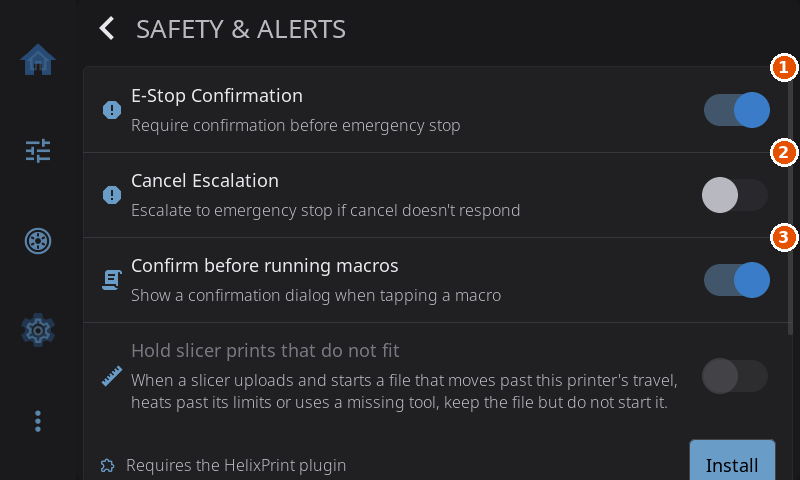
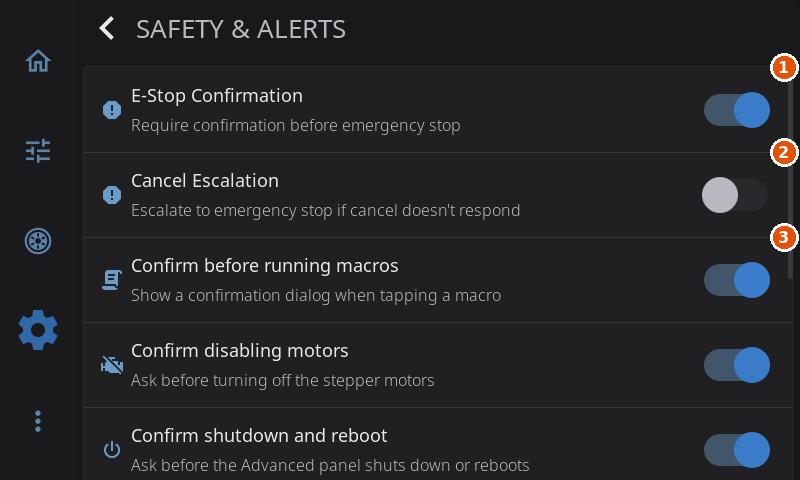
docs(user): Safety images show the motor and power confirmation rows

diff --git a/docs/devel/GALLERY.md b/docs/devel/GALLERY.md
@@ -32,7 +32,19 @@ Every app screenshot the docs show, grouped by area. Generated by `scripts/gen_g
 
 <img src="../images/screenshot-settings-panel.png" alt="Settings panel" width="400"/>
 
+### Wizard wifi
+
+<img src="../images/screenshot-wizard-wifi.png" alt="Wizard wifi" width="400"/>
+
 ## Home
+
+### Home edit mode
+
+<img src="../images/user/home-edit-mode.png" alt="Home edit mode" width="400"/>
+
+### Home edit nav buttons
+
+<img src="../images/user/home-edit-nav-buttons.png" alt="Home edit nav buttons" width="400"/>
 
 ### Home widget catalog category
 
@@ -41,6 +53,10 @@ Every app screenshot the docs show, grouped by area. Generated by `scripts/gen_g
 ### Home widget catalog
 
 <img src="../images/user/home-widget-catalog.png" alt="Home widget catalog" width="400"/>
+
+### Home widget trash
+
+<img src="../images/user/home-widget-trash.png" alt="Home widget trash" width="400"/>
 
 ### Home
 
@@ -60,9 +76,17 @@ Every app screenshot the docs show, grouped by area. Generated by `scripts/gen_g
 
 <img src="../images/user/controls-fan.png" alt="Controls fan" width="400"/>
 
+### Controls home row
+
+<img src="../images/user/controls-home-row.png" alt="Controls home row" width="400"/>
+
 ### Controls motion
 
 <img src="../images/user/controls-motion.png" alt="Controls motion" width="400"/>
+
+### Controls nozzle chooser
+
+<img src="../images/user/controls-nozzle-chooser.png" alt="Controls nozzle chooser" width="400"/>
 
 ### Controls pid
 
@@ -78,17 +102,37 @@ Every app screenshot the docs show, grouped by area. Generated by `scripts/gen_g
 
 <img src="../images/user/preflight-check.png" alt="Preflight check" width="400"/>
 
+### Preflight material
+
+<img src="../images/user/preflight-material.png" alt="Preflight material" width="400"/>
+
 ### Print select
 
 <img src="../images/user/print-select.png" alt="Print select" width="400"/>
+
+### Print status controls
+
+<img src="../images/user/print-status-controls.png" alt="Print status controls" width="400"/>
 
 ### Print status
 
 <img src="../images/user/print-status.png" alt="Print status" width="400"/>
 
+### Print tune callouts
+
+<img src="../images/user/print-tune-callouts.png" alt="Print tune callouts" width="400"/>
+
 ### Print tune
 
 <img src="../images/user/print-tune.png" alt="Print tune" width="400"/>
+
+### Printing filament rows
+
+<img src="../images/user/printing-filament-rows.png" alt="Printing filament rows" width="400"/>
+
+### Printing material edit
+
+<img src="../images/user/printing-material-edit.png" alt="Printing material edit" width="400"/>
 
 ## Filament (AMS)
 
@@ -200,6 +244,10 @@ Every app screenshot the docs show, grouped by area. Generated by `scripts/gen_g
 
 <img src="../images/user/settings-network.png" alt="Settings network" width="400"/>
 
+### Settings printer visuals
+
+<img src="../images/user/settings-printer-visuals.png" alt="Settings printer visuals" width="400"/>
+
 ### Settings printers
 
 <img src="../images/user/settings-printers.png" alt="Settings printers" width="400"/>
@@ -248,9 +296,17 @@ Every app screenshot the docs show, grouped by area. Generated by `scripts/gen_g
 
 <img src="../images/user/settings-system-2.png" alt="Settings system 2" width="400"/>
 
+### Settings system reset
+
+<img src="../images/user/settings-system-reset.png" alt="Settings system reset" width="400"/>
+
 ### Settings system
 
 <img src="../images/user/settings-system.png" alt="Settings system" width="400"/>
+
+### Settings theme actions
+
+<img src="../images/user/settings-theme-actions.png" alt="Settings theme actions" width="400"/>
 
 ### Settings theme
 
@@ -263,6 +319,18 @@ Every app screenshot the docs show, grouped by area. Generated by `scripts/gen_g
 ### Settings touch input
 
 <img src="../images/user/settings-touch-input.png" alt="Settings touch input" width="400"/>
+
+### Settings touch sliders
+
+<img src="../images/user/settings-touch-sliders.png" alt="Settings touch sliders" width="400"/>
+
+### Settings updates check
+
+<img src="../images/user/settings-updates-check.png" alt="Settings updates check" width="400"/>
+
+### Settings updates firmware managed
+
+<img src="../images/user/settings-updates-firmware-managed.png" alt="Settings updates firmware managed" width="400"/>
 
 ### Settings updates
 
@@ -277,3 +345,161 @@ Every app screenshot the docs show, grouped by area. Generated by `scripts/gen_g
 ### Screen lock
 
 <img src="../images/user/screen-lock.png" alt="Screen lock" width="400"/>
+
+## About
+
+### About version row
+
+<img src="../images/user/about-version-row.png" alt="About version row" width="400"/>
+
+## Chamber
+
+### Chamber card stock
+
+<img src="../images/user/chamber-card-stock.png" alt="Chamber card stock" width="400"/>
+
+## Change
+
+### Change host dialog
+
+<img src="../images/user/change-host-dialog.png" alt="Change host dialog" width="400"/>
+
+## Config
+
+### Config safety confirmations
+
+<img src="../images/user/config-safety-confirmations.png" alt="Config safety confirmations" width="400"/>
+
+### Config safety power confirmations
+
+<img src="../images/user/config-safety-power-confirmations.png" alt="Config safety power confirmations" width="400"/>
+
+### Config screen sharing
+
+<img src="../images/user/config-screen-sharing.png" alt="Config screen sharing" width="400"/>
+
+## Connection
+
+### Connection rows
+
+<img src="../images/user/connection-rows.png" alt="Connection rows" width="400"/>
+
+## Debug
+
+### Debug bundle dialog
+
+<img src="../images/user/debug-bundle-dialog.png" alt="Debug bundle dialog" width="400"/>
+
+## Detection
+
+### Detection settings
+
+<img src="../images/user/detection-settings.png" alt="Detection settings" width="400"/>
+
+## Filament
+
+### Filament tool select
+
+<img src="../images/user/filament-tool-select.png" alt="Filament tool select" width="400"/>
+
+## Help
+
+### Help rows
+
+<img src="../images/user/help-rows.png" alt="Help rows" width="400"/>
+
+## History
+
+### History time filters
+
+<img src="../images/user/history-time-filters.png" alt="History time filters" width="400"/>
+
+## Klipper
+
+### Klipper recovery dialog
+
+<img src="../images/user/klipper-recovery-dialog.png" alt="Klipper recovery dialog" width="400"/>
+
+## Label
+
+### Label printer settings 2
+
+<img src="../images/user/label-printer-settings-2.png" alt="Label printer settings 2" width="400"/>
+
+## Language
+
+### Language time rows
+
+<img src="../images/user/language-time-rows.png" alt="Language time rows" width="400"/>
+
+## Led
+
+### Led settings startup
+
+<img src="../images/user/led-settings-startup.png" alt="Led settings startup" width="400"/>
+
+## Manage
+
+### Manage printers
+
+<img src="../images/user/manage-printers.png" alt="Manage printers" width="400"/>
+
+## Motion
+
+### Motion home bar
+
+<img src="../images/user/motion-home-bar.png" alt="Motion home bar" width="400"/>
+
+### Motion z column
+
+<img src="../images/user/motion-z-column.png" alt="Motion z column" width="400"/>
+
+## Nav
+
+### Nav bar
+
+<img src="../images/user/nav-bar.png" alt="Nav bar" width="400"/>
+
+## Spoolman
+
+### Spoolman settings
+
+<img src="../images/user/spoolman-settings.png" alt="Spoolman settings" width="400"/>
+
+## Temp
+
+### Temp chamber diagnostics
+
+<img src="../images/user/temp-chamber-diagnostics.png" alt="Temp chamber diagnostics" width="400"/>
+
+### Temp nozzle picker
+
+<img src="../images/user/temp-nozzle-picker.png" alt="Temp nozzle picker" width="400"/>
+
+## Trouble
+
+### Trouble log level
+
+<img src="../images/user/trouble-log-level.png" alt="Trouble log level" width="400"/>
+
+## Wizard
+
+### Wizard connection
+
+<img src="../images/user/wizard-connection.png" alt="Wizard connection" width="400"/>
+
+### Wizard preferences
+
+<img src="../images/user/wizard-preferences.png" alt="Wizard preferences" width="400"/>
+
+### Wizard printer identify
+
+<img src="../images/user/wizard-printer-identify.png" alt="Wizard printer identify" width="400"/>
+
+### Wizard telemetry
+
+<img src="../images/user/wizard-telemetry.png" alt="Wizard telemetry" width="400"/>
+
+### Wizard wifi
+
+<img src="../images/user/wizard-wifi.png" alt="Wizard wifi" width="400"/>

diff --git a/docs/user/configuration/safety-alerts.md b/docs/user/configuration/safety-alerts.md
@@ -16,6 +16,12 @@ These are in the `safety` section.
 2. Cancel Escalation.
 3. Confirm before running macros.
 
+![The motor and power confirmation rows](../../images/user/config-safety-power-confirmations.png)
+
+1. Confirm disabling motors.
+2. Confirm shutdown and reboot.
+3. Shutdown/reboot target, shown only when the printer is a different computer.
+
 | Key | Default | Values | What it does |
 |-----|---------|--------|--------------|
 | `estop_require_confirmation` | `true` | `true` or `false` | Asks for confirmation before an emergency stop. With `false` the E-Stop acts immediately. The default protects against accidental stops. **Settings > Safety & Alerts > E-Stop Confirmation**. |
@@ -24,7 +30,8 @@ These are in the `safety` section.
 | `cancel_escalation_timeout_seconds` | `30` | `15`, `30`, `60`, `120` | How long to wait after sending a cancel before escalating. It applies only while `cancel_escalation_enabled` is `true`. **Escalation Timeout**. Other values round up to the next of these four, and anything above 60 becomes 120. |
 | `tool_change_require_confirmation` | `true` | `true` or `false` | Asks before switching to another tool from the Home screen's tool switcher, from a toolhead on the filament system's screen, or from the Filament screen's tool list on printers where that list switches tools. With `false` those taps switch straight away. A tool change during a paused print always asks. **Settings > Printing > Confirm tool changes**, shown only on printers with more than one tool. |
 | `motors_off_require_confirmation` | `true` | `true` or `false` | Asks before Disable Motors releases the stepper motors. With `false` the motors are released straight away. While a print is running the motors stay on either way. **Settings > Safety & Alerts > Confirm disabling motors**. |
-| `power_require_confirmation` | `true` | `true` or `false` | Asks before the **Shutdown** and **Reboot** rows on the Advanced panel act. With `false` they act straight away on a screen that runs on the printer's own computer. The Home screen's power button, a screen on a different computer, and any request made during a print still open the dialog. **Settings > Safety & Alerts > Confirm shutdown and reboot**. |
+| `power_require_confirmation` | `true` | `true` or `false` | Asks before the **Shutdown** and **Reboot** rows on the Advanced panel act. With `false` they act straight away on a screen that runs on the printer's own computer, or on the `power_target` of a screen on a different computer. The Home screen's power button, `power_target` set to ask, and any request made during a print still open the dialog. **Settings > Safety & Alerts > Confirm shutdown and reboot**. |
+| `power_target` | `0` | `0`, `1`, `2` | For a screen on a different computer from the printer: what the Advanced panel's **Shutdown** and **Reboot** rows act on. `0` asks every time, `1` is the printer, `2` is this screen. With `power_require_confirmation` off the rows act on the target straight away; with it on, the dialog opens with the target selected. **Settings > Safety & Alerts > Shutdown/reboot target**, shown only on a screen whose printer is another computer. |
 | `allow_cold_extrude` | `false` | `true` or `false` | Lets filament loading and unloading run with a cold nozzle. **Settings > Printing > Allow cold load/unload**. |
 
 ---
